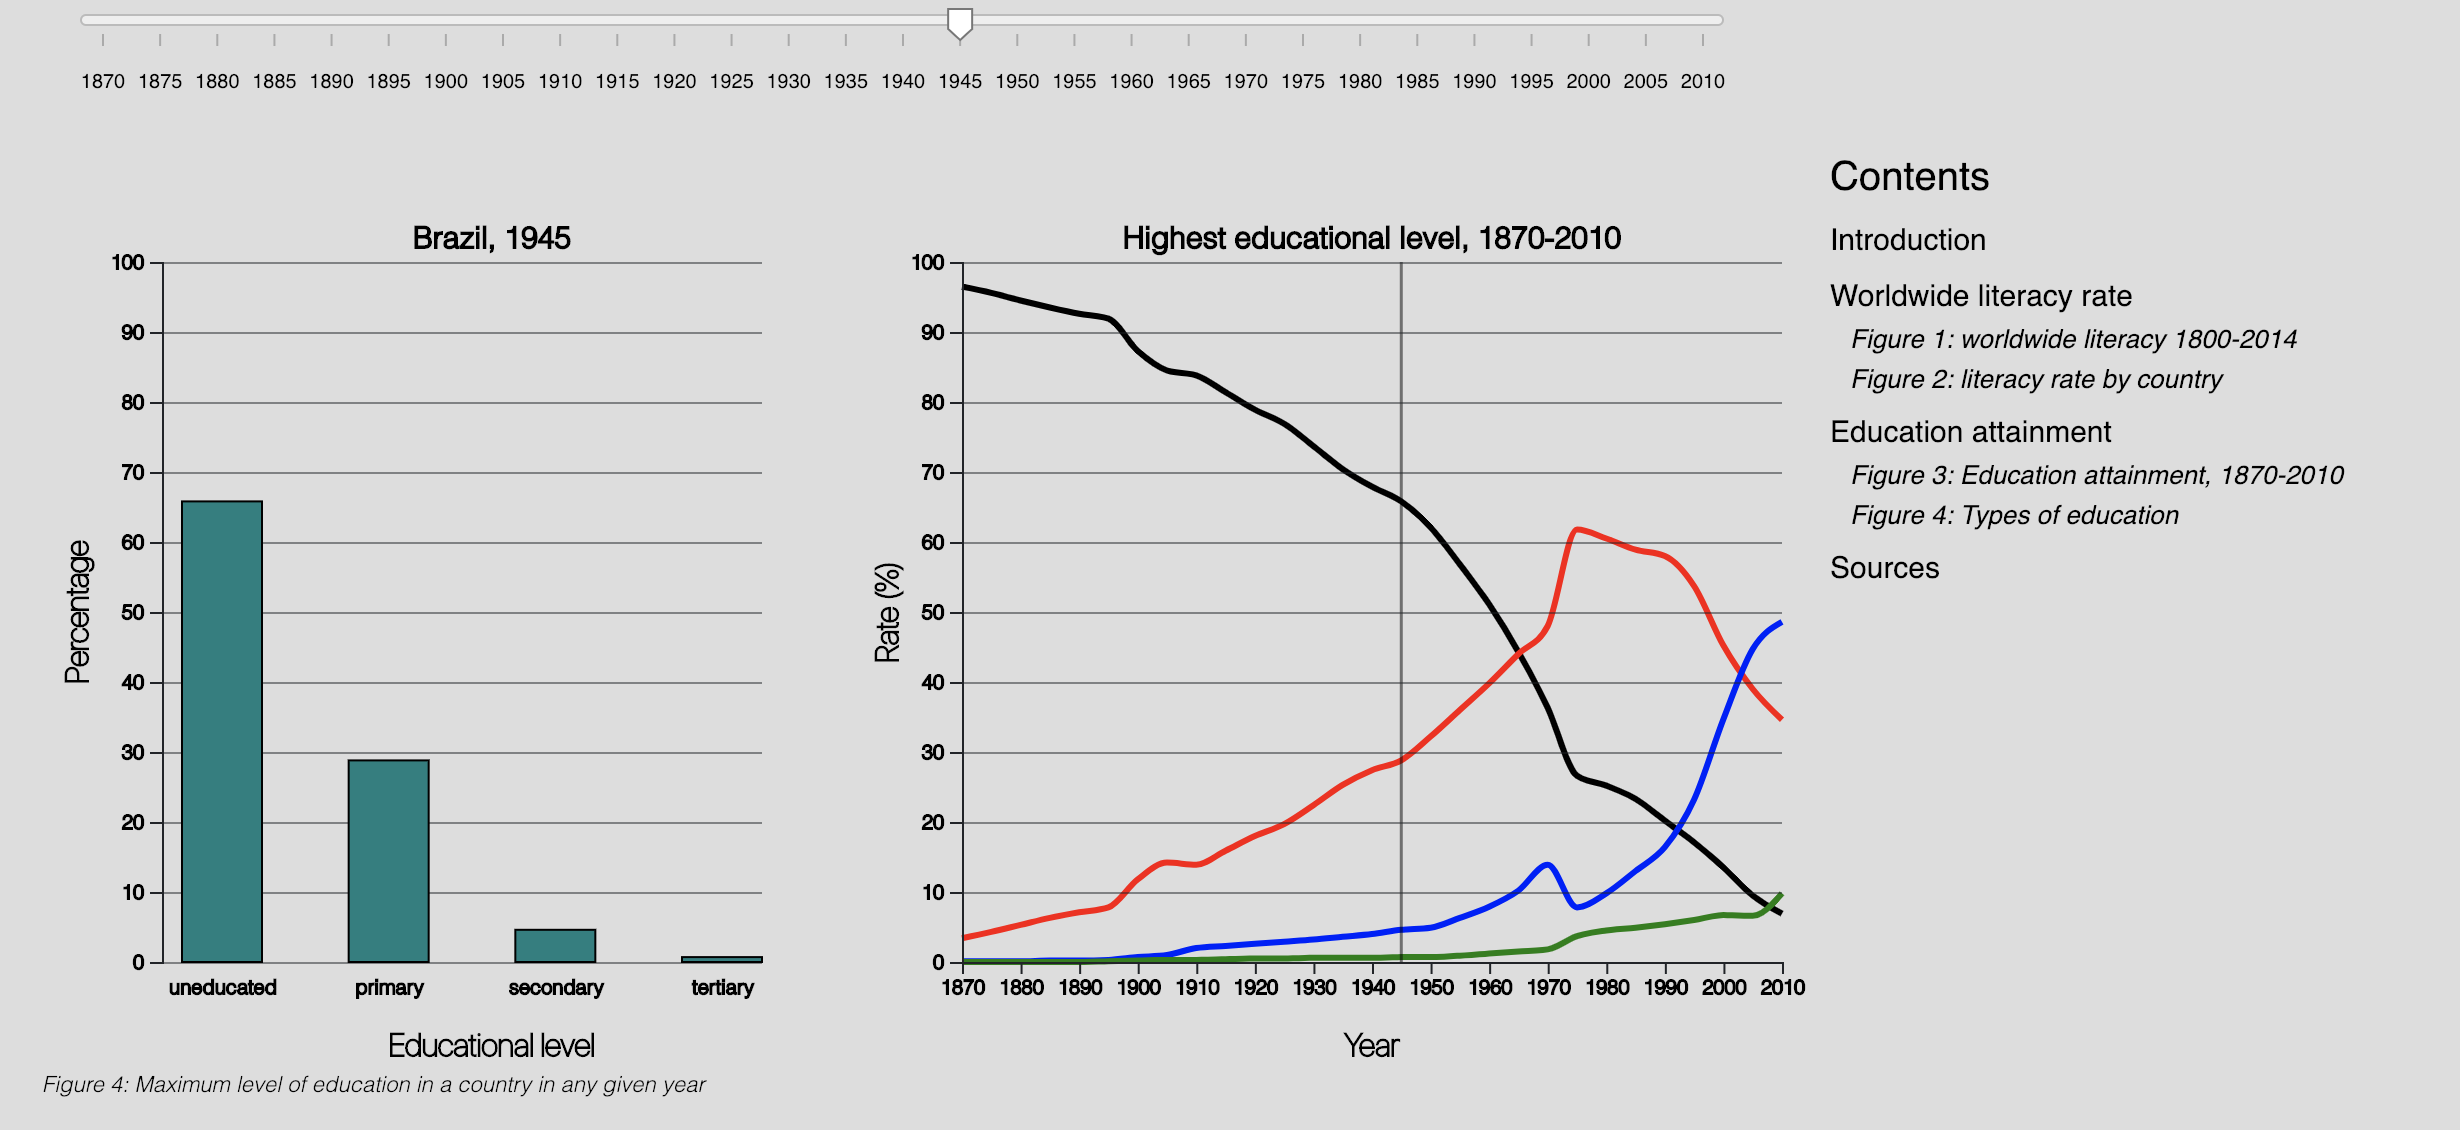
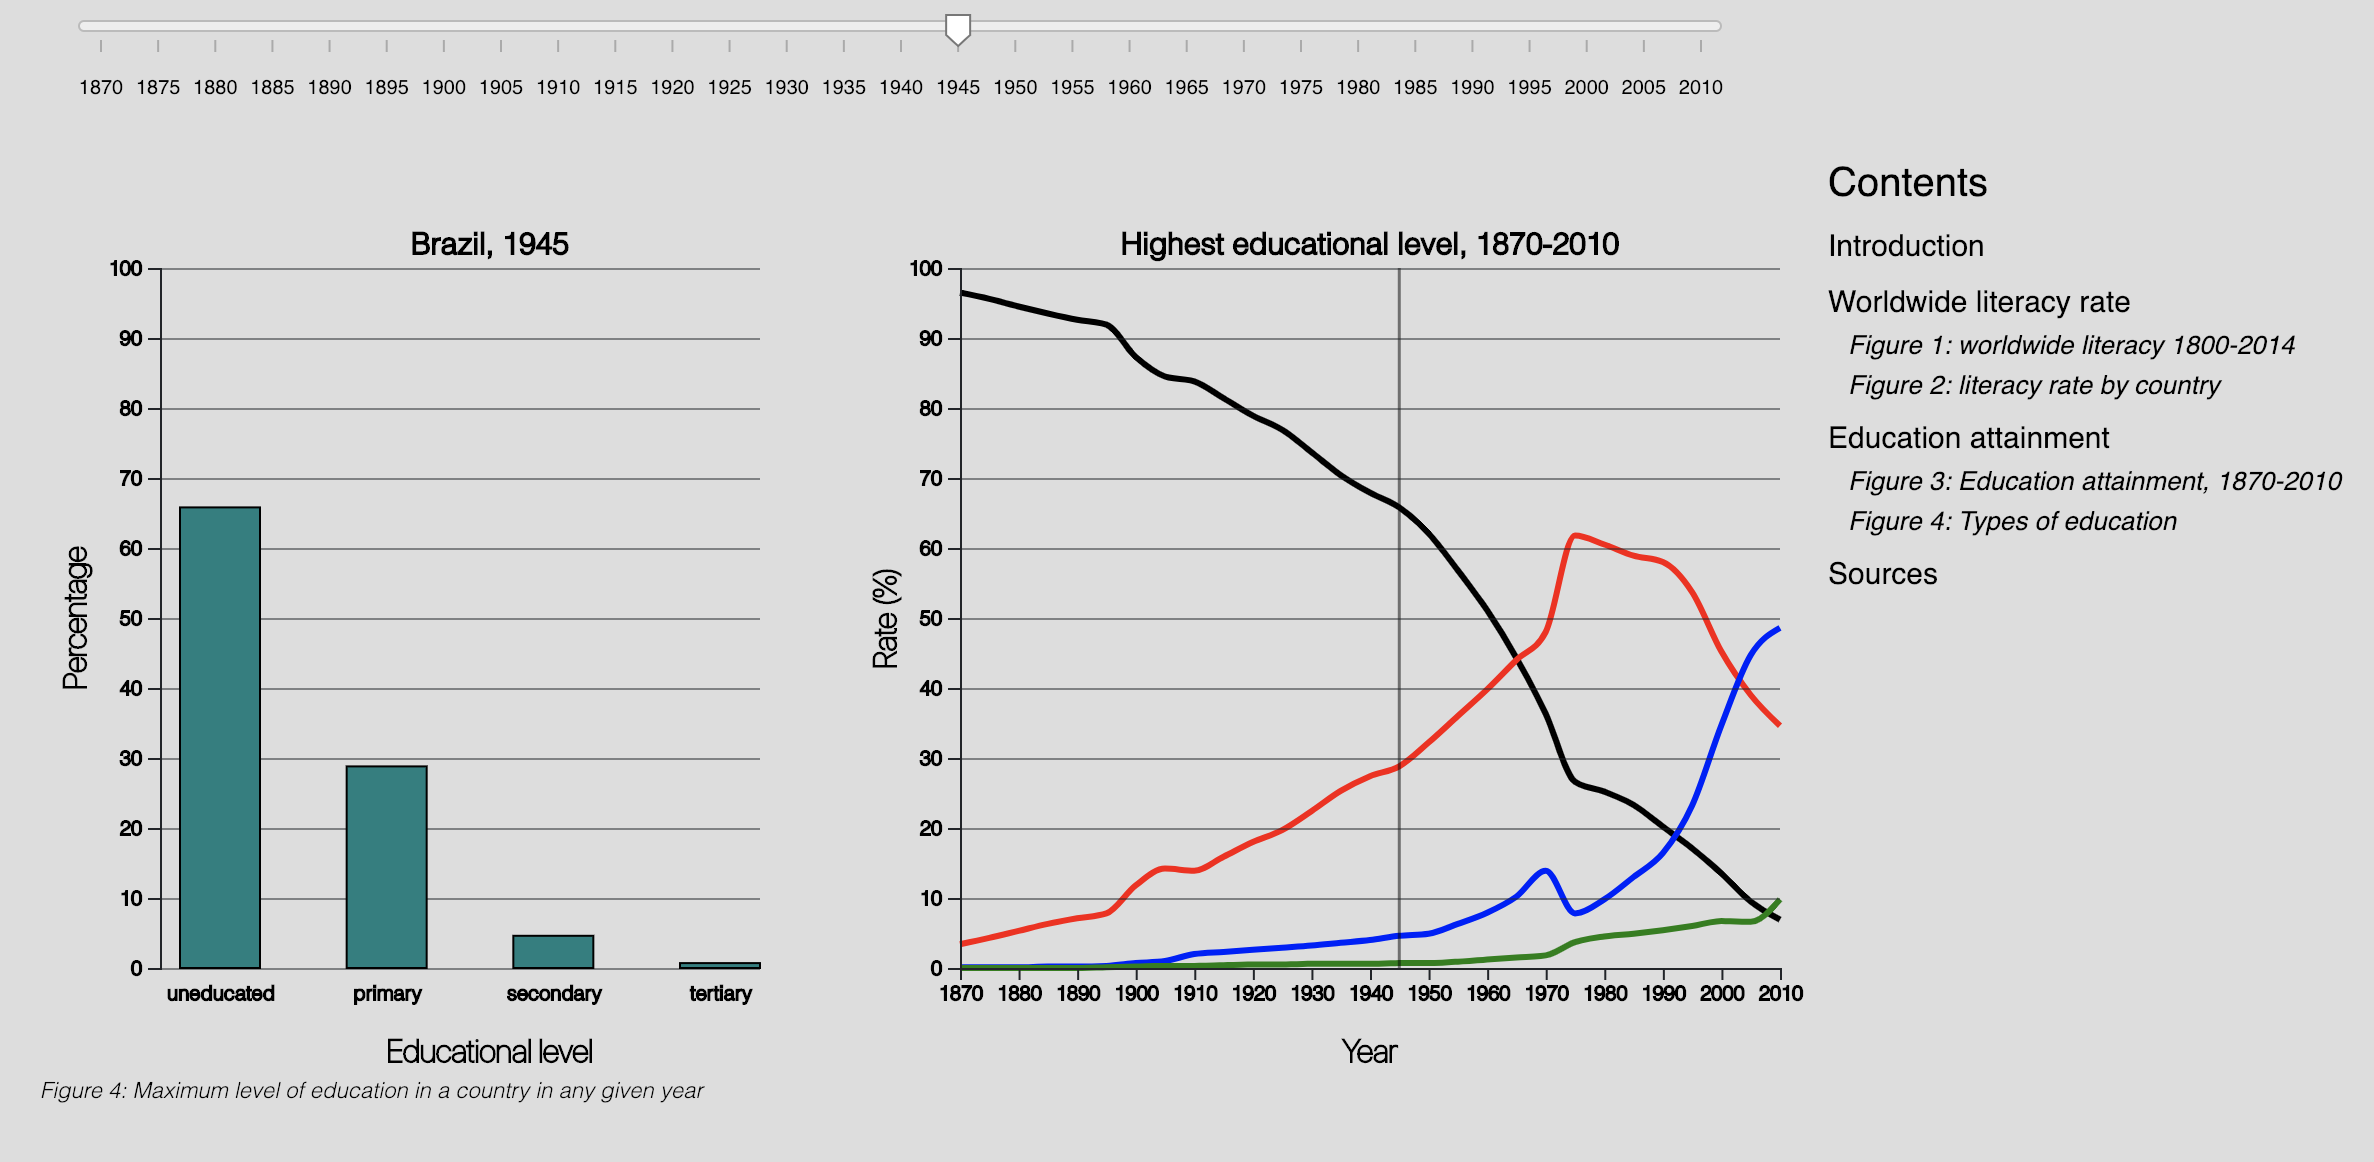
final product

diff --git a/README.md b/README.md
@@ -7,7 +7,10 @@ Nowadays, education is widely regarded as a human right. It is expected of gover
 
 #### Screenshots
 Some screenshots of the page:  
-<img title = "Literacy line chart" src="doc/lineChart" width="150" style="max-width:100%;">
+<img title = "Literacy line chart" src="doc/lineLiteracy.png" height=200 style="max-width:100%;">
+<img title = "Literacy map" src="doc/mapLiteracy.png" height=200 style="max-width:100%;">  
+<img title = "Attainment map" src="doc/mapAttainment.png" height=200 style="max-width:100%;">
+
 
 
 #### Repository Contents
